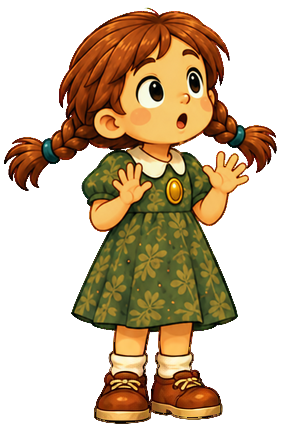
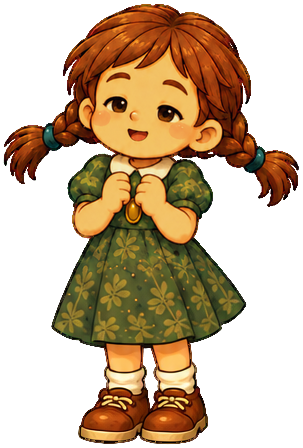
welle-041 · Runde 2 nach blinder Prüfung: settle0 aus settle1 · walk3 mit Armschwung · 16 Rückseiten-Zeichen · painted nur Nenn-Pflicht · Tor gegen Tinten-Schatten
- merle_settle0 neu aus merle_settle1 (Schleife flackerte, 5 % Größensprung); merle_walk3 mit vertauschtem Armschwung
- CARD_BACK_MARKS 16 (Schema erlaubt 8 Paare), geometrische Formen zuerst; Test gegen content-schema max
- nounDe.painted hebt nur die Nenn-Pflicht; painted + pairs/captives = Widerspruch; withPolicy ohne Temp-Leck
- check-paint-copy: RETIRED /Tinten-?Schatten/ auch im Inhalt, Selbsttest-Fall
- Schließfach-Hinweis nennt das Gerät nicht (»Im Schließfach ist etwas weggesperrt.«); Tablet-deDesc neu
- STORY_SPINE_CH01 Nachtrag; u02/u06-Lexikon Eigennamen; Herkunfts-Snapshot + README nachgeführt

diff --git a/packages/game-paint/src/cards/Glance.tsx b/packages/game-paint/src/cards/Glance.tsx
@@ -326,24 +326,36 @@ export const WordMark = ({ size = 16 }: { size?: number }): React.ReactElement =
   </svg>
 );
 
-/** welle-041 · THE EIGHT BACK MARKS. The back used to carry a digit 1–8 (R5-W1 ·
+/** welle-041 · THE BACK MARKS. The back used to carry a digit 1–8 (R5-W1 ·
  *  D2, below), and on a number↔number-word memory (ch01 `boss.me1`: 3/three,
  *  7/seven …) both blind solvers of the welle-033 re-check read those digits as
  *  the task. A mark keeps what the digit was for — every card is nameable, a
  *  child can say „der Stern" and point — and it can collide with no English
  *  word on any memory card, because it is a German shape name the card never
- *  asks for. One ink colour for all eight: colour IS a task in this book. */
+ *  asks for. One ink colour for all of them: colour IS a task in this book. */
 export const CARD_BACK_MARKS: readonly { name: string; d: string }[] = [
+  // Sixteen, because a memory card may deal up to eight pairs (content-schema
+  // `pairs … .max(8)`): no two backs of one tray ever share a mark. The plain
+  // geometric shapes come first — a small tray (ch04's feelings memory deals
+  // six) never shows a heart or a tear-like drop beside `happy`/`sad`.
   { name: "Kreis", d: "M8.2 12.8a3.8 3.8 0 1 0 7.6 0a3.8 3.8 0 1 0 -7.6 0Z" },
   { name: "Dreieck", d: "M12 8.6L16.4 16.6H7.6Z" },
-  { name: "Stern", d: "M12 8.6L13.12 11.46L16.18 11.64L13.81 13.59L14.59 16.56L12 14.9L9.41 16.56L10.19 13.59L7.82 11.64L10.88 11.46Z" },
-  { name: "Herz", d: "M12 16.8C7 13.4 7.4 8.8 10.1 9.2C11.1 9.35 11.7 10.1 12 10.8C12.3 10.1 12.9 9.35 13.9 9.2C16.6 8.8 17 13.4 12 16.8Z" },
-  { name: "Mond", d: "M14.4 8.7A4.3 4.3 0 1 0 14.4 17.1A5.4 5.4 0 0 1 14.4 8.7Z" },
-  { name: "Tropfen", d: "M12 8.4C14.3 11.3 15.6 12.9 15.6 14.2A3.6 3.6 0 0 1 8.4 14.2C8.4 12.9 9.7 11.3 12 8.4Z" },
-  { name: "Blatt", d: "M7.6 16.8C7.6 11.2 10.8 8.6 16.4 8.6C16.4 14.2 13.4 16.8 7.6 16.8ZM8.6 15.8L14.6 10.2" },
   { name: "Quadrat", d: "M8.7 9.5h6.6v6.6h-6.6Z" },
+  { name: "Stern", d: "M12 8.6L13.12 11.46L16.18 11.64L13.81 13.59L14.59 16.56L12 14.9L9.41 16.56L10.19 13.59L7.82 11.64L10.88 11.46Z" },
+  { name: "Raute", d: "M12 8.4L16.2 12.8L12 17.2L7.8 12.8Z" },
+  { name: "Kreuz", d: "M10.6 8.6h2.8v2.8h2.8v2.8h-2.8v2.8h-2.8v-2.8h-2.8v-2.8h2.8Z" },
+  { name: "Ring", d: "M7.9 12.8a4.1 4.1 0 1 0 8.2 0a4.1 4.1 0 1 0 -8.2 0ZM10.1 12.8a1.9 1.9 0 1 0 3.8 0a1.9 1.9 0 1 0 -3.8 0Z" },
+  { name: "Sechseck", d: "M16.3 12.8L14.15 16.52H9.85L7.7 12.8L9.85 9.08H14.15Z" },
+  { name: "Mond", d: "M14.4 8.7A4.3 4.3 0 1 0 14.4 17.1A5.4 5.4 0 0 1 14.4 8.7Z" },
+  { name: "Blatt", d: "M7.6 16.8C7.6 11.2 10.8 8.6 16.4 8.6C16.4 14.2 13.4 16.8 7.6 16.8Z" },
+  { name: "Wolke", d: "M8.6 16.2a2.4 2.4 0 0 1 0.2-4.8a3.1 3.1 0 0 1 6-0.6a2.7 2.7 0 0 1 0.9 5.4Z" },
+  { name: "Blitz", d: "M13.4 8.2L8.6 13.8H11.6L10.6 17.6L15.4 11.8H12.4Z" },
+  { name: "Pfeil", d: "M7.6 11.6H12.2V8.9L16.6 12.8L12.2 16.7V14H7.6Z" },
+  { name: "Welle", d: "M7.4 11.9c1.5-1.6 3-1.6 4.6 0s3.1 1.6 4.6 0v2.6c-1.5 1.6-3 1.6-4.6 0s-3.1-1.6-4.6 0Z" },
+  { name: "Herz", d: "M12 16.8C7 13.4 7.4 8.8 10.1 9.2C11.1 9.35 11.7 10.1 12 10.8C12.3 10.1 12.9 9.35 13.9 9.2C16.6 8.8 17 13.4 12 16.8Z" },
+  { name: "Tropfen", d: "M12 8.4C14.3 11.3 15.6 12.9 15.6 14.2A3.6 3.6 0 0 1 8.4 14.2C8.4 12.9 9.7 11.3 12 8.4Z" },
 ];
-export const cardBackMarkOf = (i: number): { name: string; d: string } => CARD_BACK_MARKS[((i % 8) + 8) % 8]!;
+export const cardBackMarkOf = (i: number): { name: string; d: string } => CARD_BACK_MARKS[((i % CARD_BACK_MARKS.length) + CARD_BACK_MARKS.length) % CARD_BACK_MARKS.length]!;
 
 /** THE FACE-DOWN CARD (the memory kind). It was „❓" — the reader's own font,
  *  eight times on one card, which the blind critic called the worst surface in
@@ -368,7 +380,7 @@ export const CardBack = ({ size = 30, mark }: { size?: number; mark?: number }):
         <path d="M9 15.4c-1.6-1-1.9-3-.6-4.3 1.2-1.2 3.2-1 4.2.4.8 1.2.4 2.6-.7 3.2-.9.5-1.9.1-2.2-.7-.2-.6.1-1.2.7-1.4"
           fill="none" stroke="#5e4a24" strokeWidth="1.7" strokeLinecap="round" />
       ) : (
-        <path d={m.d} fill="#5e4a24" stroke="#5e4a24" strokeWidth="0.9" strokeLinejoin="round" strokeLinecap="round" />
+        <path d={m.d} fill="#5e4a24" fillRule="evenodd" stroke="#5e4a24" strokeWidth="0.9" strokeLinejoin="round" strokeLinecap="round" />
       )}
     </svg>
   );

diff --git a/packages/game-paint/src/cards/card-back-marks.test.ts b/packages/game-paint/src/cards/card-back-marks.test.ts
@@ -11,15 +11,18 @@ const require = createRequire(new URL("../../../../apps/web/package.json", impor
 const { renderToStaticMarkup } = require("react-dom/server");
 
 describe("memory backs are nameable without a number (welle-041)", () => {
-  it("eight distinct marks, each with its own German name", () => {
-    expect(CARD_BACK_MARKS).toHaveLength(8);
-    expect(new Set(CARD_BACK_MARKS.map((m) => m.name)).size).toBe(8);
-    expect(new Set(CARD_BACK_MARKS.map((m) => m.d)).size).toBe(8);
+  it("sixteen distinct marks — one per card of the largest tray (8 pairs) — each with its own German name", () => {
+    const schema = fs.readFileSync(new URL("../../../content-schema/src/game-tasks.ts", import.meta.url), "utf8");
+    const maxPairs = Number(/pairs:[^\n]*\.max\((\d+)\)/.exec(schema)?.[1]);
+    expect(maxPairs, "content-schema memory pairs max").toBeGreaterThan(0);
+    expect(CARD_BACK_MARKS.length).toBeGreaterThanOrEqual(2 * maxPairs);
+    expect(new Set(CARD_BACK_MARKS.map((m) => m.name)).size).toBe(CARD_BACK_MARKS.length);
+    expect(new Set(CARD_BACK_MARKS.map((m) => m.d)).size).toBe(CARD_BACK_MARKS.length);
     for (const m of CARD_BACK_MARKS) expect(m.name, m.name).not.toMatch(/\d/);
   });
 
   it("a back draws no text and no digit — not in the picture, not in its label", () => {
-    for (let i = 0; i < 8; i++) {
+    for (let i = 0; i < CARD_BACK_MARKS.length; i++) {
       const html = renderToStaticMarkup(React.createElement(CardBack, { mark: i }));
       expect(html).not.toContain("<text");
       expect(html.replace(/<[^>]*>/g, ""), "text content").not.toMatch(/\d/);
@@ -39,5 +42,14 @@ describe("memory backs are nameable without a number (welle-041)", () => {
     expect(labels.filter((l) => l!.startsWith("umgedrehte Karte, "))).toHaveLength(16);
     expect(labels.join(" ")).not.toMatch(/\d/);
     expect(html).not.toContain("<text");
+  });
+
+  it("a full tray of sixteen cards shows sixteen different backs", () => {
+    const tray = Array.from({ length: 16 }, (_, i) => ({ v: `w${String.fromCharCode(97 + i)}` }));
+    const state = { tray, up: [], matched: [] } as unknown as Parameters<typeof MemoryCard>[0]["state"];
+    const html = renderToStaticMarkup(React.createElement(MemoryCard, { state, dispatch: () => {} }));
+    const buttons = [...html.matchAll(/<button[^>]*aria-label="([^"]*)"/g)].map((m) => m[1]);
+    expect(buttons).toHaveLength(16);
+    expect(new Set(buttons).size).toBe(16);
   });
 });

diff --git a/packages/game-paint/src/PaintGame.tsx b/packages/game-paint/src/PaintGame.tsx
@@ -2673,7 +2673,9 @@ function Overlay({
     return staged(<>
       {device ? <Plate url={art.device_locker_a!} behindUrl={art[`obj_${o.cagehint?.captive}`]} behindWindow={DEVICE_WINDOW} altDe="Ein verschlossenes Schließfach." height={182} />
         : <SceneCut art={art} backdrop={roomStem} pose="stand" heroHeight={88} height={162} subject={<PaintedCage size={104} />} />}
-      <Key>{device ? `${name.charAt(0).toUpperCase()}${name.slice(1)} ist weggesperrt.` : `Da steckt ${name} fest!`}</Key>
+      {/* welle-041: a locker hint never names its device — the plate above paints it behind the window, and
+          „Das Tablet ist weggesperrt." would hand over `It's a tablet.` before the card asks (Koki 15.09.). */}
+      <Key>{device ? "Im Schließfach ist etwas weggesperrt." : `Da steckt ${name} fest!`}</Key>
       <p className="pb-quiet">Stell dich davor und öffne die Aufgabe. Mit der richtigen Antwort kannst du {device ? "das Schließfach" : "den Käfig"} öffnen.</p>
       <button className="pb-btn-primary" style={btn} onClick={() => onDismiss(o)}>Alles klar!</button>
     </>);

diff --git a/docs/art/ch01-welle041/README.md b/docs/art/ch01-welle041/README.md
@@ -9,10 +9,15 @@ Das Quellblatt `merle/merle-motion-v2-original.png` hat nur sechs Posen, alle sc
 |---|---|---|---|
 | `merle_caged0` | verhext: Kopf gesenkt, Augen zu, Mund traurig, Arme schlaff (`entities.ts` verspricht genau das) | `merle_a` | oben bis 80 % Höhe |
 | `merle_caged1` | zweite Zelle derselben Seufzer-Schleife: Kopf etwas tiefer und seitlich | `merle_caged0`-Bearbeitung | oben bis 80 % |
-| `merle_settle0` | gerade erwacht: Augen weit, Mund »oh«, Hände halb gehoben | `merle_a` | oben bis 80 % |
+| `merle_settle0` | erste Zelle derselben Erleichterung wie `settle1`: Augen offen, kleineres Lächeln, Fäuste etwas tiefer (die Schleife settle0↔settle1 wechselt alle 12 Takte) | `merle_settle1` | oben bis 62 % |
 | `merle_wave1` | andere Hälfte des Winkens: Unterarm weiter außen, Hand anders geneigt | `merle_wave0` | rechts oben (x ≥ 50 %, y ≤ 55 %), Zelle beidseitig verbreitert |
-| `merle_walk3` | Gegen-Schritt: Beine und Armschwung vertauscht | `merle_walk1` | ab 36 % Höhe (Kopf bleibt), Zelle beidseitig verbreitert |
+| `merle_walk3` | Gegen-Schritt: Beine und Armschwung vertauscht (vorderer Arm schwingt vor die Brust) | `merle_walk1` | ab 36 % Höhe (Kopf bleibt), Zelle beidseitig verbreitert |
 | `merle_run` | **entfernt** — nie gezeichnet: `entPoseCell` gibt für `classmate` vor der Lauf-Regel zurück | — | — |
+
+**Zweiter Durchgang (blinder Kunst-Leser + Widerleger, welle-041):** Der erste `settle0` (überrascht, Hände offen, aus `merle_a`)
+flackerte im Wechsel mit `settle1` (lachend, Fäuste) und war 5 % kleiner — ersetzt durch eine Zelle aus `settle1` selbst. Der erste
+`walk3` las sich als Kopie von `walk1` (Arme gleich) — ersetzt durch einen Auftrag mit ausdrücklich vertauschtem Armschwung. Die ersten
+Versuche liegen nicht im Repo.
 
 Bleibt bytegleich und steht NICHT auf der Karte: `merle_joy = merle_joy1` (Hüpfer ohne zweite Zelle) und `merle_a–d` (Leerlauf still).
 

diff --git a/docs/design/g1/paint/STORY_SPINE_CH01.md b/docs/design/g1/paint/STORY_SPINE_CH01.md
@@ -1,6 +1,8 @@
 # STORY-SPINE ch01 — was das Kind sieht, was es erfährt, was jede Zeile belegen muss
 
 **Status: KANON für die Copy des ersten Kapitels (R5-Welle-1, Session C1, 2026-08-11).**
+
+> **Nachtrag 2026-09-15 (Koki, Karte welle-041):** Der Verursacher heißt ab jetzt **»der Tintengeist«**, nicht mehr »der Tinten-Schatten« — in jeder Zeile, die ein Kind liest (doc 44 §1.10 Nachtrag; `check-paint-copy` hält das alte Wort draußen). Wo unten noch »Tinten-Schatten« steht, ist das die Fassung vom 11.08.; alles andere hier gilt unverändert.
 Abgeleitet aus doc 44 §1 (Story-Bibel) + §2.2/§2.6 (Gesetze) · doc 45 §C/§D (Kokis
 Replay-Verdikt) · den fünf gegateten Dossiers in `ch01-dossiers-v2/` · und dem
 **geschnittenen Level selbst**, gegen das jede Zeile hier geprüft wurde.
